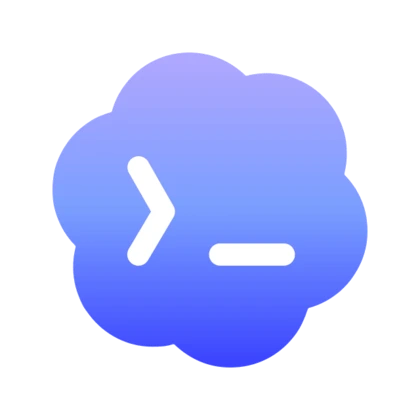
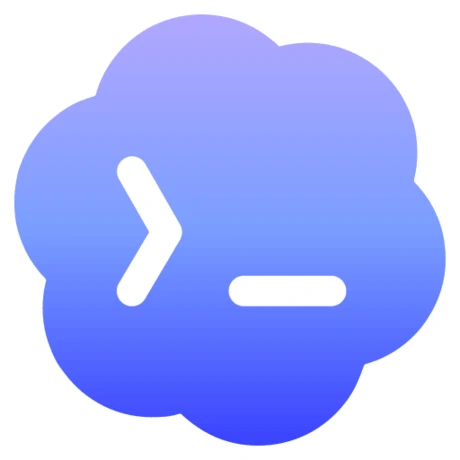
Outline the Codex cloud like the sticker; float it at shoulder height
Neil: give Codex a white outline like Claude's, make it bigger, and float it
near his shoulders.

Outline: measured the Claude sticker's own white band rather than guessing —
16px on a 482px-tall sticker, so 3.3% of height — and applied that same ratio to
the cloud, via a true morphological dilation of the alpha so the band stays even
around the cloud's concave lobes instead of thinning there.

First attempt produced a bracket-shaped frame instead of an outline. Cause: the
app-tile removal had left 442 anti-aliased pixels along the old rounded-square
boundary, too grey to be caught by the white flood fill but still opaque, and
dilating those drew the tile's corners back in. Fixed by keeping only the
connected component containing the centre — 171,715 cloud pixels kept, 442
strays discarded — before outlining.

Layout: Claude stays at his feet, Codex now floats at 15% down the figure with a
gentle rotate-and-rise loop, sized ~20% larger than the sticker. Both are
positioned against .hero-photo-wrap rather than the hero section, so they track
the figure as the column resizes instead of drifting off it. Left side on
purpose — the "that's me" note occupies top-right.

Changed region(s): [[0.031, 0.031, 0.9905, 0.9905], [0.2476, 0.3405, 0.4333, 0.681], [0.4952, 0.5571, 0.7738, 0.681]]

diff --git a/src/styles/v8.css b/src/styles/v8.css
@@ -735,22 +735,23 @@ html.rail-collapsed .v8 .rail-id { align-items: center; justify-content: center;
 @media (max-width: 640px) { .v8 .about-photo { max-width: 100%; } }
 
 /* ---- hero sidekicks -------------------------------------------------------------------
-   Two small companions at Neil's feet. They sit on the same baseline as the cutout and bob
-   very slightly out of phase, so they read as alive without competing with the headline.
-   Sized in vw with a px cap so they shrink with the figure instead of overlapping it. */
-.v8 .hero-pets { position: absolute; left: 50%; bottom: 0; transform: translateX(-50%);
-  display: flex; align-items: flex-end; gap: clamp(6px, 1.2vw, 16px); z-index: 2; pointer-events: none; }
-.v8 .hero-pets .pet { display: block; width: auto; height: clamp(46px, 5.6vw, 72px);
-  filter: drop-shadow(0 6px 12px rgba(10,10,10,.10)); }
-/* the cloud is a disc and reads optically smaller than the wide sticker beside it */
-.v8 .hero-pets .pet-b { height: clamp(40px, 4.9vw, 63px); }
-.v8 .pet-a { animation: pet-bob 4.2s ease-in-out infinite; }
-.v8 .pet-b { animation: pet-bob 4.2s ease-in-out infinite 1.6s; }
-@keyframes pet-bob { 0%, 100% { transform: translateY(0); } 50% { transform: translateY(-6px); } }
-/* they flank the figure rather than stack under it once the hero goes single-column */
+   Claude sits at Neil's feet, Codex floats at shoulder height. Both are positioned against
+   .hero-photo-wrap (which is already position:relative), NOT against the hero, so they track
+   the figure when the column resizes instead of drifting away from it. */
+.v8 .hero-pets { position: absolute; inset: 0; pointer-events: none; z-index: 3; }
+.v8 .hero-pets .pet { position: absolute; display: block; width: auto;
+  filter: drop-shadow(0 6px 14px rgba(10,10,10,.14)); }
+/* at his feet, just left of centre so it does not sit on top of his shoes */
+.v8 .pet-a { bottom: 0; left: 50%; margin-left: -104px; height: clamp(46px, 5.6vw, 72px);
+  animation: pet-bob 4.2s ease-in-out infinite; }
+/* floating by his shoulder. Left side on purpose: the "that's me" note lives top-right. */
+.v8 .pet-b { top: 15%; left: 50%; margin-left: -168px; height: clamp(52px, 6.6vw, 86px);
+  animation: pet-float 5.4s ease-in-out infinite 1.2s; }
+@keyframes pet-bob   { 0%, 100% { transform: translateY(0); } 50% { transform: translateY(-6px); } }
+@keyframes pet-float { 0%, 100% { transform: translateY(0) rotate(-3deg); }
+                       50%      { transform: translateY(-11px) rotate(3deg); } }
 @media (max-width: 900px) {
-  .v8 .hero-pets { gap: 10px; }
-  .v8 .hero-pets .pet { height: clamp(38px, 10vw, 56px); }
-  .v8 .hero-pets .pet-b { height: clamp(33px, 8.7vw, 49px); }
+  .v8 .pet-a { margin-left: -74px; height: clamp(38px, 10vw, 56px); }
+  .v8 .pet-b { margin-left: -116px; top: 12%; height: clamp(42px, 11vw, 64px); }
 }
 @media (prefers-reduced-motion: reduce) { .v8 .pet-a, .v8 .pet-b { animation: none; } }
